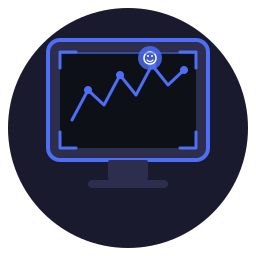
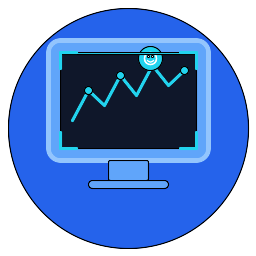
fix: 修改窗口标题为 Desktop Monitor，替换默认 Electron 标题；更新图标为更明亮的配色方案

diff --git a/src/renderer/index.html b/src/renderer/index.html
@@ -2,7 +2,7 @@
 <html>
   <head>
     <meta charset="UTF-8" />
-    <title>Electron</title>
+    <title>Desktop Monitor</title>
     <!-- https://developer.mozilla.org/en-US/docs/Web/HTTP/CSP -->
     <meta
       http-equiv="Content-Security-Policy"